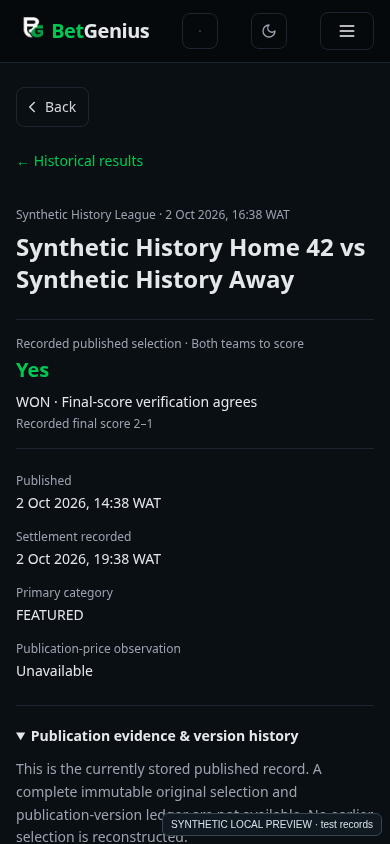
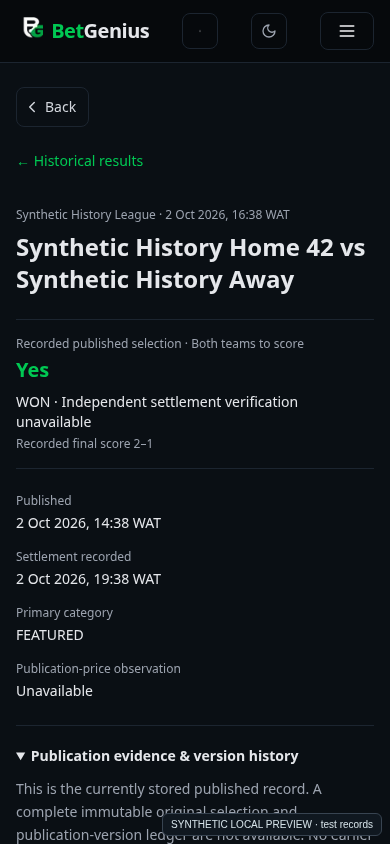
Anchor verified history to publication evidence and exclude quarter returns

Changed region(s): [[0.0308, 0.4621, 0.7692, 0.8318], [0.0308, 0.8626, 0.8308, 1.0], [0.8, 0.9858, 0.9538, 1.0]]

diff --git a/src/components/PerformanceDashboard.tsx b/src/components/PerformanceDashboard.tsx
@@ -226,8 +226,8 @@ export function PerformanceDashboard({
         {[
           ["Published records", summary.published],
           ["Recorded settled", summary.recordedSettled],
-          ["Score-verified decided", summary.decided],
-          ["Score-verified win rate", pct(summary.rate)],
+          ["Verified decided", summary.decided],
+          ["Verified win rate", pct(summary.rate)],
         ].map(([label, value]) => (
           <div key={String(label)}>
             <dt className="text-xs text-gray-400">{label}</dt>
@@ -241,9 +241,9 @@ export function PerformanceDashboard({
         Recorded: {summary.counts.WON} won · {summary.counts.LOST} lost ·{" "}
         {summary.counts.VOID} void · {summary.counts.PENDING} pending ·{" "}
         {summary.other} other. {summary.unverified} settled records lack
-        independent verification or have duplicates. Score-verified win rate is
-        verified wins ÷ verified wins and losses; it does not establish
-        profitability.
+        publication evidence, independent verification or have duplicates.
+        Verified win rate requires matching publication-selection evidence and
+        final-score agreement. It does not establish profitability.
       </p>
       {!filtered.length ? (
         <p role="status" className="py-5 text-sm text-gray-400">
@@ -335,14 +335,18 @@ export function PerformanceDashboard({
           </p>
           <p>
             Verified outcomes require pre-kickoff publication, a valid
-            settlement timestamp after kickoff and no later than this report,
-            valid nonnegative final scores, and agreement between the current
-            stored structured selection and the existing market resolver. This
-            checks settlement arithmetic, not an unavailable immutable
-            original-selection ledger. Unsupported, partial, manually voided
-            without scores, missing or contradictory records remain visible but
-            are excluded from verified rates and returns. At least 20 verified
-            wins/losses are required to display a rate.
+            settlement timestamp after kickoff and no later than this report, a
+            matching immutable publication-selection observation, valid
+            nonnegative final scores, and agreement between the current stored
+            structured selection and the existing market resolver. The
+            publication observation anchors the supported structured selection;
+            it is not a complete original-version ledger. Price-observation
+            coverage is selective, so this verified sample is not an unbiased
+            estimate for every published record. Unsupported, partial,
+            quarter-line totals, manually voided without scores, missing or
+            contradictory records remain visible but are excluded from verified
+            rates and returns. At least 20 verified wins/losses are required to
+            display a rate.
           </p>
           <p>
             Different rows for the same identified fixture and market type are

diff --git a/scripts/check-sprint09.tsx b/scripts/check-sprint09.tsx
@@ -1,3 +1,4 @@
+import { toBookmakerSelection } from "../src/lib/odds";
 const react = require("react");
 react.cache ??= (fn: unknown) => fn;
 import assert from "node:assert/strict";
@@ -152,8 +153,17 @@ eq(
       {
         ...base,
         outcome: "VOID",
-        marketType: "DRAW_NO_BET",
-        selection: { value: "HOME" },
+        marketConfirmation: {
+          publicationQuoteEvidence: {
+            ...snap,
+            entryQuoteSelection: toBookmakerSelection("OVER_UNDER", {
+              line: 2,
+              direction: "OVER",
+            }),
+          },
+        },
+        marketType: "OVER_UNDER",
+        selection: { line: 2, direction: "OVER" },
         finalHomeScore: 1,
         finalAwayScore: 1,
       },
@@ -206,6 +216,35 @@ eq(
 );
 eq(settlementVerified({ ...base, fixtureApiId: 0 }, now), false);
 eq(historyPrice({ ...base, fixtureApiId: -1 }), null);
+eq(settlementVerified({ ...base, marketConfirmation: null }, now), false);
+eq(
+  performanceSummary([{ ...base, marketConfirmation: null }], now)
+    .recordedSettled,
+  1,
+);
+eq(performanceSummary([{ ...base, marketConfirmation: null }], now).decided, 0);
+eq(settlementVerified({ ...base, rewriteCount: 1 }, now), false);
+for (const line of [2.25, 2.75, Infinity]) {
+  const quarter = {
+    ...base,
+    marketType: "OVER_UNDER",
+    selection: { line, direction: "OVER" },
+    outcome: "LOST",
+    finalHomeScore: 1,
+    finalAwayScore: 1,
+    marketConfirmation: {
+      publicationQuoteEvidence: {
+        ...snap,
+        entryQuoteSelection: toBookmakerSelection("OVER_UNDER", {
+          line,
+          direction: "OVER",
+        }),
+      },
+    },
+  };
+  eq(settlementVerified(quarter, now), false);
+  eq(performanceSummary([quarter], now).eligible, 0);
+}
 const html = renderToStaticMarkup(
   <PerformanceDashboard
     rows={rows}

diff --git a/src/lib/performanceTransparency.ts b/src/lib/performanceTransparency.ts
@@ -101,13 +101,19 @@ export function settlementVerified(r: PerformanceRow, now = new Date()) {
   )
     return false;
   if (!isValidSelection(r.marketType as MarketType, r.selection)) return false;
+  // Legacy totals allow quarter lines, but the stored three-state outcome cannot prove partial returns.
+  if (
+    r.marketType === "OVER_UNDER" &&
+    !Number.isInteger((r.selection as { line: number }).line * 2)
+  )
+    return false;
   return (
     resolveMarket(
       r.marketType as MarketType,
       r.selection as Selection,
       r.finalHomeScore!,
       r.finalAwayScore!,
-    ) === r.outcome
+    ) === r.outcome && historyPrice(r) !== null
   );
 }
 export function indicativeReturn(

diff --git a/scripts/check-sprint09-browser.ts b/scripts/check-sprint09-browser.ts
@@ -110,10 +110,7 @@ async function main() {
         !html.includes("PRIVATE_S09"),
         "No private selection in public HTML/flight",
       );
-      ok(
-        html.includes("Score-verified win rate"),
-        "Explicit verification scope",
-      );
+      ok(html.includes("Verified win rate"), "Explicit verification scope");
       ok(
         (
           await p.locator('link[rel="canonical"]').getAttribute("href")

diff --git a/src/app/(public)/track-record/prediction/[id]/page.tsx b/src/app/(public)/track-record/prediction/[id]/page.tsx
@@ -56,7 +56,7 @@ export default async function PredictionHistory({
         <p className="mt-2 text-sm">
           {row.outcome} ·{" "}
           {verified
-            ? "Final-score verification agrees"
+            ? "Publication-selection and final-score verification agree"
             : "Independent settlement verification unavailable"}
         </p>
         <p className="mt-1 text-xs text-gray-400">

diff --git a/docs/sprint09/implementation-and-validation.md b/docs/sprint09/implementation-and-validation.md
@@ -10,7 +10,7 @@ Reused capabilities include the existing market settlement resolver, minimum 20-
 
 ## Product and hierarchy
 
-The dashboard shows published records, recorded settlements, score-verified decided records and score-verified win rate in one compact ruled overview. The team search has one row; period/category/market/competition/outcome filters use native GET controls inside a disclosure. Ranges cover the current partial calendar month and the preceding 0/2/5/11 months. Exact dates and viewer scope are displayed.
+The dashboard shows published records, recorded settlements, verified decided records and verified win rate in one compact ruled overview. The team search has one row; period/category/market/competition/outcome filters use native GET controls inside a disclosure. Ranges cover the current partial calendar month and the preceding 0/2/5/11 months. Exact dates and viewer scope are displayed.
 
 Monthly history uses restrained horizontal bars with textual rates and sample sizes; insufficient samples show decided counts rather than a fabricated percentage. Category and market comparisons contain only populated groups, with one row per group. Competition comparison, calculation methods and archives are expandable. Results are paginated at 20 records, newest kickoff first, linking to `/track-record/prediction/<id>` and then the existing match page when a slug is available.
 
@@ -27,9 +27,9 @@ The cohort is **currently accessible PUBLISHED rows both published and kicked of
 | Published records | Distinct prediction IDs in the accessible filtered cohort. Category cross-post links do not multiply records. |
 | Recorded settled | Stored WON + LOST + VOID outcomes, irrespective of independent verification. |
 | Other | Outcomes outside WON/LOST/VOID/PENDING, including unsupported partial-result codes. |
-| Score-verified | Stable fixture identity; valid publication before kickoff; settlement at/after kickoff and no later than the report; nonnegative integer final scores; valid structured selection; stored outcome agrees with the existing market resolver. Unsupported markets or incomplete evidence are excluded. |
-| Score-verified decided | Verified WON + LOST. Verified VOID is not in the rate denominator. |
-| Score-verified win rate | Verified wins / verified wins and losses; displayed only with at least 20 decided records. This verifies arithmetic against the **currently stored** selection, not an unavailable original-selection ledger. It is not a profitability measure. |
+| Verified | Stable fixture identity; valid publication before kickoff; settlement at/after kickoff and no later than the report; nonnegative integer final scores; valid structured selection; stored outcome agrees with the existing market resolver; matching immutable publication-selection evidence is required. Unsupported markets or incomplete evidence are excluded. |
+| Verified decided | Verified WON + LOST. Verified VOID is not in the rate denominator. |
+| Verified win rate | Verified wins / verified wins and losses; displayed only with at least 20 decided records. This requires both publication evidence anchoring the structured selection and agreement with stored final scores. It does not reconstruct a complete original-version ledger or establish profitability. The price-evidence coverage is selective, so this is not an unbiased estimate for all published predictions. |
 | Category comparison | Current stored primary category, not historical category membership or current cross-post tags. |
 | Monthly history | Kickoff month in Africa/Lagos, not settlement month. |
 | Longest win/loss run | Consecutive verified W/L records ordered by kickoff then ID. Void, pending, duplicate or unverifiable records break the run. Different markets on one match remain correlated observations; this is not a subscriber betting sequence. |
@@ -44,7 +44,7 @@ This is an indicative flat-stake illustration, **not verified executed betting R
 - Distinct named bookmaker sources, an exact matching source count, and a recomputed source median agreeing with the stored entry price.
 - No substitution from `Prediction.odds`, later caches, promotion observations or prospective research snapshots.
 
-One unit is staked per eligible record. Net return is decimal−1 for a win, −1 for a loss, 0 for a void. ROI is total net units divided by eligible unit stakes, including refunded void stakes in the stated denominator. At least 20 eligible records are required to display ROI; eligible/excluded counts and observed net units remain explicit. No reliable partial-settlement ledger exists, so half/partial/unknown outcomes are excluded rather than assigned invented returns. Score-free cancellation voids remain recorded outcomes but cannot be independently verified for this illustration.
+One unit is staked per eligible record. Net return is decimal−1 for a win, −1 for a loss, 0 for a void. ROI is total net units divided by eligible unit stakes, including refunded void stakes in the stated denominator. At least 20 eligible records are required to display ROI; eligible/excluded counts and observed net units remain explicit. No reliable partial-settlement ledger exists, so half/partial/unknown outcomes and quarter-line totals (even legacy WON/LOST rows) are excluded rather than assigned invented returns. Score-free cancellation voids remain recorded outcomes but cannot be independently verified for this illustration.
 
 ## Database, access and SEO
 
@@ -56,7 +56,7 @@ The root is dynamic, with no shared personal-data cache; anonymous data is dedup
 
 ## Validation
 
-New coverage: **88 calculation/evidence/integrity/render assertions**, **38 real PostgreSQL assertions**, and **113 actual-browser assertions** at 1440/390/320px. PostgreSQL coverage creates a real 5,001-row bucket, tests active VIP/PREMIUM, registered-free, anonymous and expired access, checks immutable rows, and cleans up its own fixtures. Browser coverage verifies public HTML/flight/structured-data boundaries, generic paid-ID 404s, subscriber access, stale paid tokens with an expired database subscription, no-store private responses, canonical/noindex, GET search, missing-price/empty/insufficient states, version limitations and zero horizontal overflow.
+New coverage: **98 calculation/evidence/integrity/render assertions**, **38 real PostgreSQL assertions**, and **113 actual-browser assertions** at 1440/390/320px. PostgreSQL coverage creates a real 5,001-row bucket, tests active VIP/PREMIUM, registered-free, anonymous and expired access, checks immutable rows, and cleans up its own fixtures. Browser coverage verifies public HTML/flight/structured-data boundaries, generic paid-ID 404s, subscriber access, stale paid tokens with an expired database subscription, no-store private responses, canonical/noindex, GET search, missing-price/empty/insufficient states, version limitations and zero horizontal overflow.
 
 All 44 existing non-browser regression suites pass, including Sprint 04–08 operational/publication/reliability/payment protections and their PostgreSQL suites. The Sprint 08 PostgreSQL suite was rerun in a fresh disposable schema: mixing preview rows into its unfiltered 60-row API fixture would crowd out its test IDs. Its 83 assertions remain unchanged. The existing track-record suite passes 71 checks; its two page-wiring assertions now require bounded entitlement-aware history and retained archive links. Existing arithmetic/archive assertions are retained.
 
@@ -102,6 +102,6 @@ Open `/track-record`; record IDs are in `work/sprint09-preview.json`. The guarde
 
 ## Limits and review recommendation
 
-There is no complete original-publication or settlement-correction ledger; original selections, published versions, executions, partial returns, historical category membership and missing prices cannot be recreated. The report distinguishes current-record score checks from those missing guarantees. Rates, run lengths and indicative returns are cohort statistics, not match-independent inference, a subscriber strategy or future promises. Query truncation, sampling thresholds and excluded records remain visible.
+There is no complete original-publication or settlement-correction ledger; original selections, published versions, executions, partial returns, historical category membership and missing prices cannot be recreated. The report requires publication evidence as well as score checks before reporting a verified rate and distinguishes that narrow observation from a complete version ledger. Rates, run lengths and indicative returns are cohort statistics, not match-independent inference, a subscriber strategy or future promises. Query truncation, sampling thresholds and excluded records remain visible.
 
 The implementation is ready for review once final CI is green. Review the screenshots and these evidence limits before deciding on design approval or any separately authorized merge/deployment. Do not merge or deploy as part of Sprint 09.
